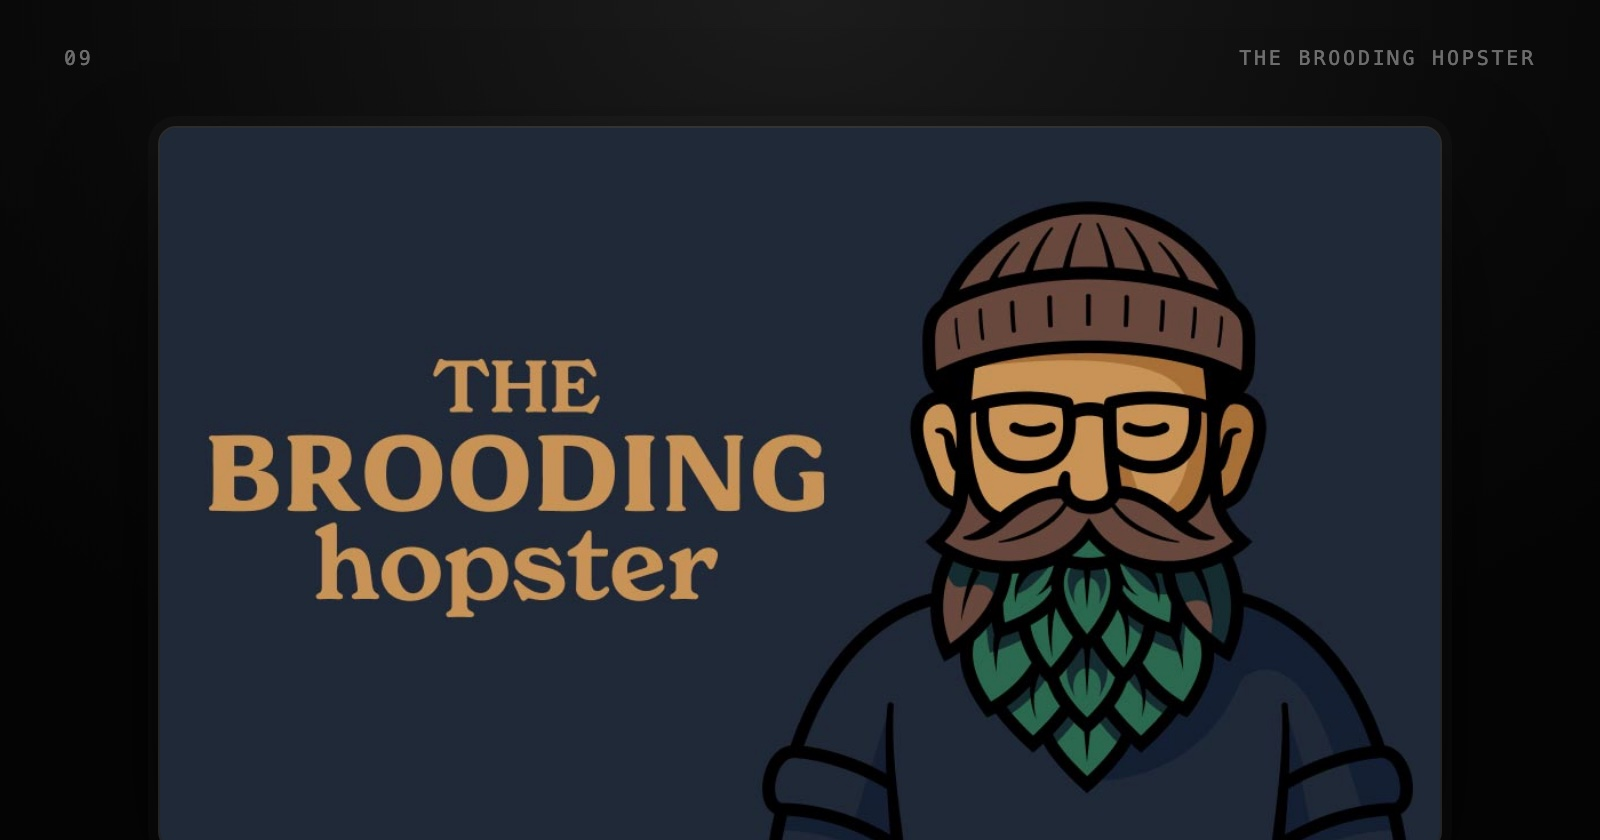
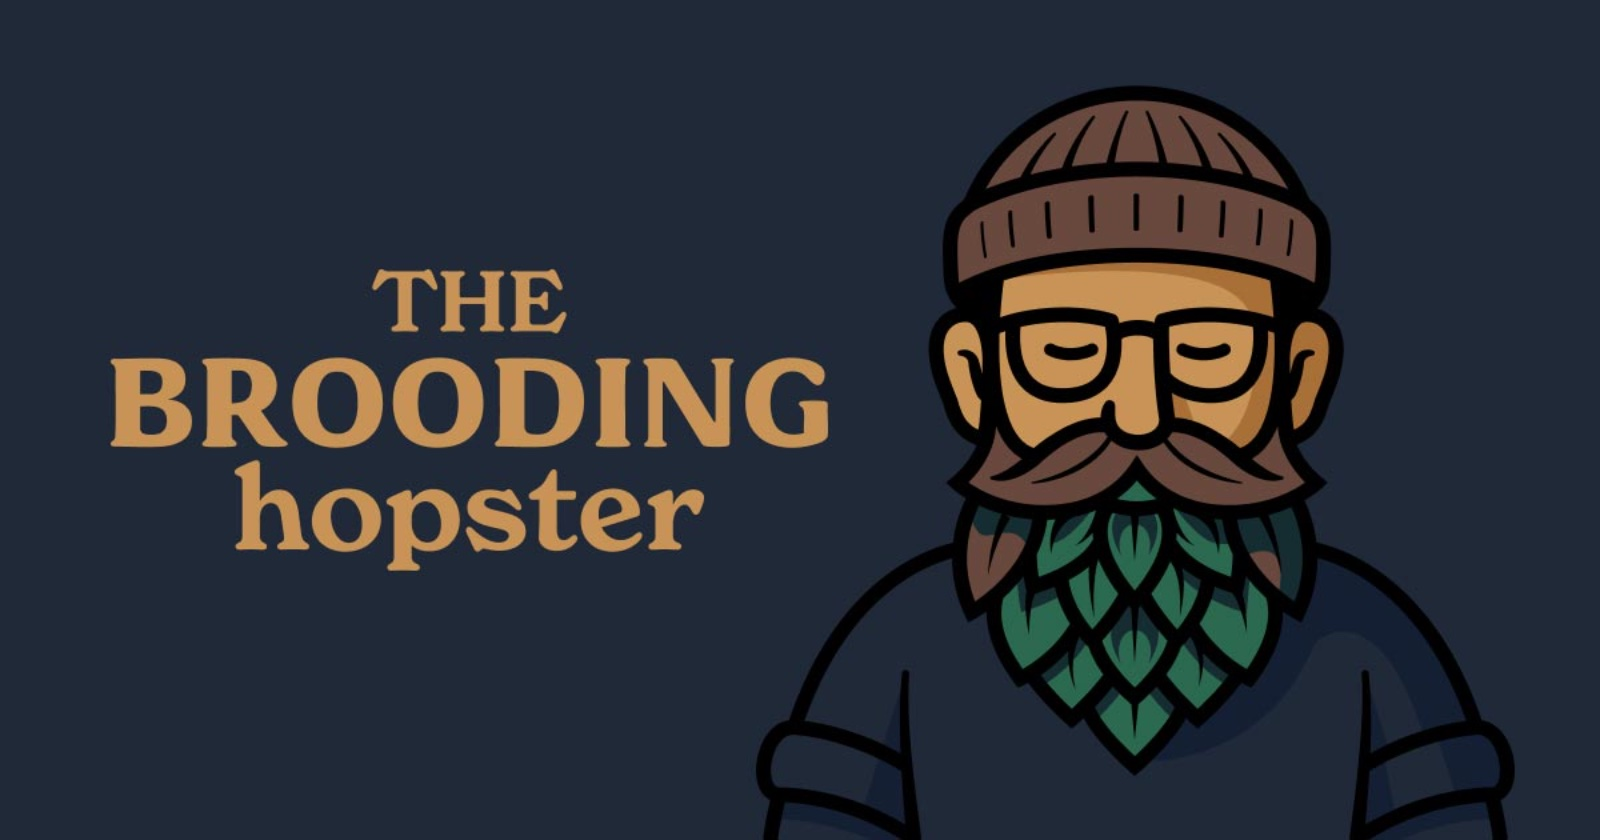
feat: switch to a card grid with full-bleed covers
Rows gave sparse projects a large slot they couldn't fill. Cards shrink
the slot, and per-project crops in covers/render.sh replace the numbered
plate, whose label would be unreadable at card size.

diff --git a/covers/template.html b/covers/template.html
@@ -1,11 +1,10 @@
 <!DOCTYPE html>
 <!--
-  Cover template for case-study thumbnails. Every cover shares this stage so the set reads as one body of work.
-  Usage: template.html?n=01&name=Zero&shot=zero  (loads shots/zero.jpg, a 1440×900 dark-mode capture)
-  Render at 800×420, 2x → 1600×840:
-    "/Applications/Google Chrome.app/Contents/MacOS/Google Chrome" --headless --hide-scrollbars \
-      --window-size=800,420 --force-device-scale-factor=2 --screenshot=out.png \
-      "file://$PWD/covers/template.html?n=01&name=Zero&shot=zero"
+  Cover template for case-study thumbnails. Every cover is a full-bleed crop so the card grid reads as one body of work.
+  Usage: template.html?shot=zero&zoom=1.4&x=50&y=0  (loads shots/zero.jpg, a 1440×900 dark-mode capture)
+    zoom  scale past the cover fit, so sparse pages fill the frame (default 1)
+    x, y  focal point in percent, kept in place while zooming (default 50, 0)
+  Crops live in render.sh, which writes the 1600×840 JPEGs to images/.
 -->
 <html lang="en">
 <head>
@@ -21,58 +20,25 @@
       background: #000;
     }
 
-    .stage {
-      position: relative;
-      width: 100%;
-      height: 100%;
-      background: radial-gradient(ellipse 70% 90% at 50% 0%, #1c1c1c 0%, #0a0a0a 65%, #050505 100%);
-    }
-
-    .label {
-      position: absolute;
-      top: 24px;
-      left: 32px;
-      right: 32px;
-      display: flex;
-      justify-content: space-between;
-      font: 500 10px/1 ui-monospace, SFMono-Regular, Menlo, monospace;
-      letter-spacing: 0.14em;
-      text-transform: uppercase;
-      color: rgba(255,255,255,0.4);
-    }
-
-    .window {
-      position: absolute;
-      top: 64px;
-      left: 80px;
-      width: 640px;
-      height: 360px; /* runs just past the stage bottom; shorter box keeps wide shots from losing their sides */
-      border-radius: 8px;
-      overflow: hidden;
-      outline: 1px solid rgba(255,255,255,0.12);
-      box-shadow: 0 30px 60px -10px rgba(0,0,0,0.9), 0 0 0 6px rgba(255,255,255,0.025);
-    }
-
-    .window img {
+    img {
       width: 100%;
       height: 100%;
       display: block;
       object-fit: cover;
-      object-position: top;
     }
   </style>
 </head>
 <body>
-  <div class="stage">
-    <div class="label"><span id="n"></span><span id="name"></span></div>
-    <div class="window"><img id="shot" alt=""></div>
-  </div>
+  <img id="shot" alt="">
   <script>
     (function () {
       var q = new URLSearchParams(location.search);
-      document.getElementById('n').textContent = q.get('n') || '00';
-      document.getElementById('name').textContent = q.get('name') || '';
-      document.getElementById('shot').src = 'shots/' + (q.get('shot') || '') + '.jpg';
+      var img = document.getElementById('shot');
+      var focus = (q.get('x') || '50') + '% ' + (q.get('y') || '0') + '%';
+      img.style.objectPosition = focus;
+      img.style.transformOrigin = focus;
+      img.style.transform = 'scale(' + (q.get('zoom') || '1') + ')';
+      img.src = 'shots/' + (q.get('shot') || '') + '.jpg';
     })();
   </script>
 </body>

diff --git a/index.html b/index.html
@@ -83,32 +83,33 @@
       height: 20px;
     }
 
-    /* Experiment rows */
+    /* Experiment cards */
+
+    .experiments {
+      display: grid;
+      grid-template-columns: repeat(3, 1fr);
+      gap: 28px;
+      max-width: 1496px; /* 1400px of content plus the side padding, so cards line up with .header-inner */
+      margin: 0 auto;
+      padding: 48px;
+    }
 
     .experiment {
       display: flex;
-      justify-content: space-between;
-      align-items: flex-start;
-      gap: 40px;
-      /* Full-bleed row so the hover fill spans the page; content lines up with .header-inner */
-      padding: 40px max(48px, calc((100% - 1400px) / 2));
-      border-bottom: 1px solid rgba(255,255,255,0.1);
+      flex-direction: column;
+      overflow: hidden;
+      border: 1px solid rgba(255,255,255,0.1);
+      border-radius: 8px;
       transition: background 0.2s ease;
-    }
-
-    .experiment-info {
-      flex-shrink: 0;
-      width: 240px;
-      padding-top: 8px;
-    }
-
-    .embed-outer {
-      flex-shrink: 0;
-      width: 55%;
     }
 
     .experiment:hover {
       background: rgba(255,255,255,0.03);
+    }
+
+    .experiment-info {
+      order: 1;
+      padding: 20px;
     }
 
     .experiment-year {
@@ -145,14 +146,14 @@
 
     .experiment-thumb {
       display: block;
-      border-radius: 4px;
-      overflow: hidden;
+      background: #111;
+      border-bottom: 1px solid rgba(255,255,255,0.1);
     }
 
     .experiment-thumb img {
       width: 100%;
+      aspect-ratio: 40 / 21;
       display: block;
-      border-radius: 4px;
       transition: opacity 0.2s ease;
     }
 
@@ -188,24 +189,21 @@
     }
 
     /* Responsive */
+    @media (max-width: 1100px) {
+      .experiments {
+        grid-template-columns: repeat(2, 1fr);
+      }
+    }
+
     @media (max-width: 768px) {
       .header {
         padding: 48px 24px 40px;
       }
 
-      .experiment {
-        flex-direction: column;
+      .experiments {
+        grid-template-columns: 1fr;
         gap: 20px;
-        padding: 32px 24px;
-      }
-
-      .experiment-info {
-        width: 100%;
-        padding-top: 0;
-      }
-
-      .embed-outer {
-        width: 100%;
+        padding: 24px;
       }
 
       .footer {

diff --git a/CLAUDE.md b/CLAUDE.md
@@ -9,15 +9,15 @@ Static single-page portfolio site. No framework, no build step — just `index.h
 - HTML, CSS, vanilla JS (all in `index.html`)
 - No package manager, no dependencies
 - Hosted on GitHub Pages with custom domain (`jessedestroys.com`)
-- `covers/` holds the thumbnail template and source shots — excluded from the Pages build
+- `covers/` holds the thumbnail template, render script and source shots — excluded from the Pages build
 - `_config.yml` only excludes repo docs and `covers/` from the Pages build — add any new top-level `.md` there, or Pages will publish it
 - `AGENTS.md` is a symlink to this file (for Codex) — edit `CLAUDE.md`, never the link
 
 ## Architecture
 
 Everything lives in `index.html`:
-- **Styles**: Inline `<style>` block in `<head>` — responsive via a single `@media (max-width: 768px)` breakpoint
-- **Layout**: CSS flexbox, max-width 1400px container
+- **Styles**: Inline `<style>` block in `<head>` — responsive breakpoints at 1100px (2 columns) and 768px (1 column)
+- **Layout**: CSS grid of cards (3 columns), max-width 1400px container
 - **Script**: IIFE at the bottom of `<body>` handles the rotating tagline animation
 - **Design**: Dark theme (#000 background, #f5f5f5 text, rgba white for muted elements)
 
@@ -44,6 +44,6 @@ To add a new case study, duplicate an `<article class="experiment">` block and u
 4. `.experiment-link` — optional external URL
 5. Embed: either an image thumbnail or an iframe in `.embed-wrap`. Thumbnails are 1600×840 JPEG covers in `images/`, all rendered from `covers/template.html` so the set stays uniform — never drop in a raw screenshot or a site's `og:image`:
    - Capture the live project at 1440×900, 2x, dark mode, into `covers/shots/<slug>.jpg` (stage light-only pages on a dark background)
-   - Render with the headless Chrome command in the template's header comment; `n` is the row's position, so renumber covers when rows are added or reordered
+   - Add a `render <slug> "<crop>"` line to `covers/render.sh` and run `covers/render.sh <slug>`; set `zoom`, `x` and `y` so the subject fills the card, especially on sparse pages
 
 To add a new rotating tagline, append a string to the `phrases` array in the `<script>` block.
